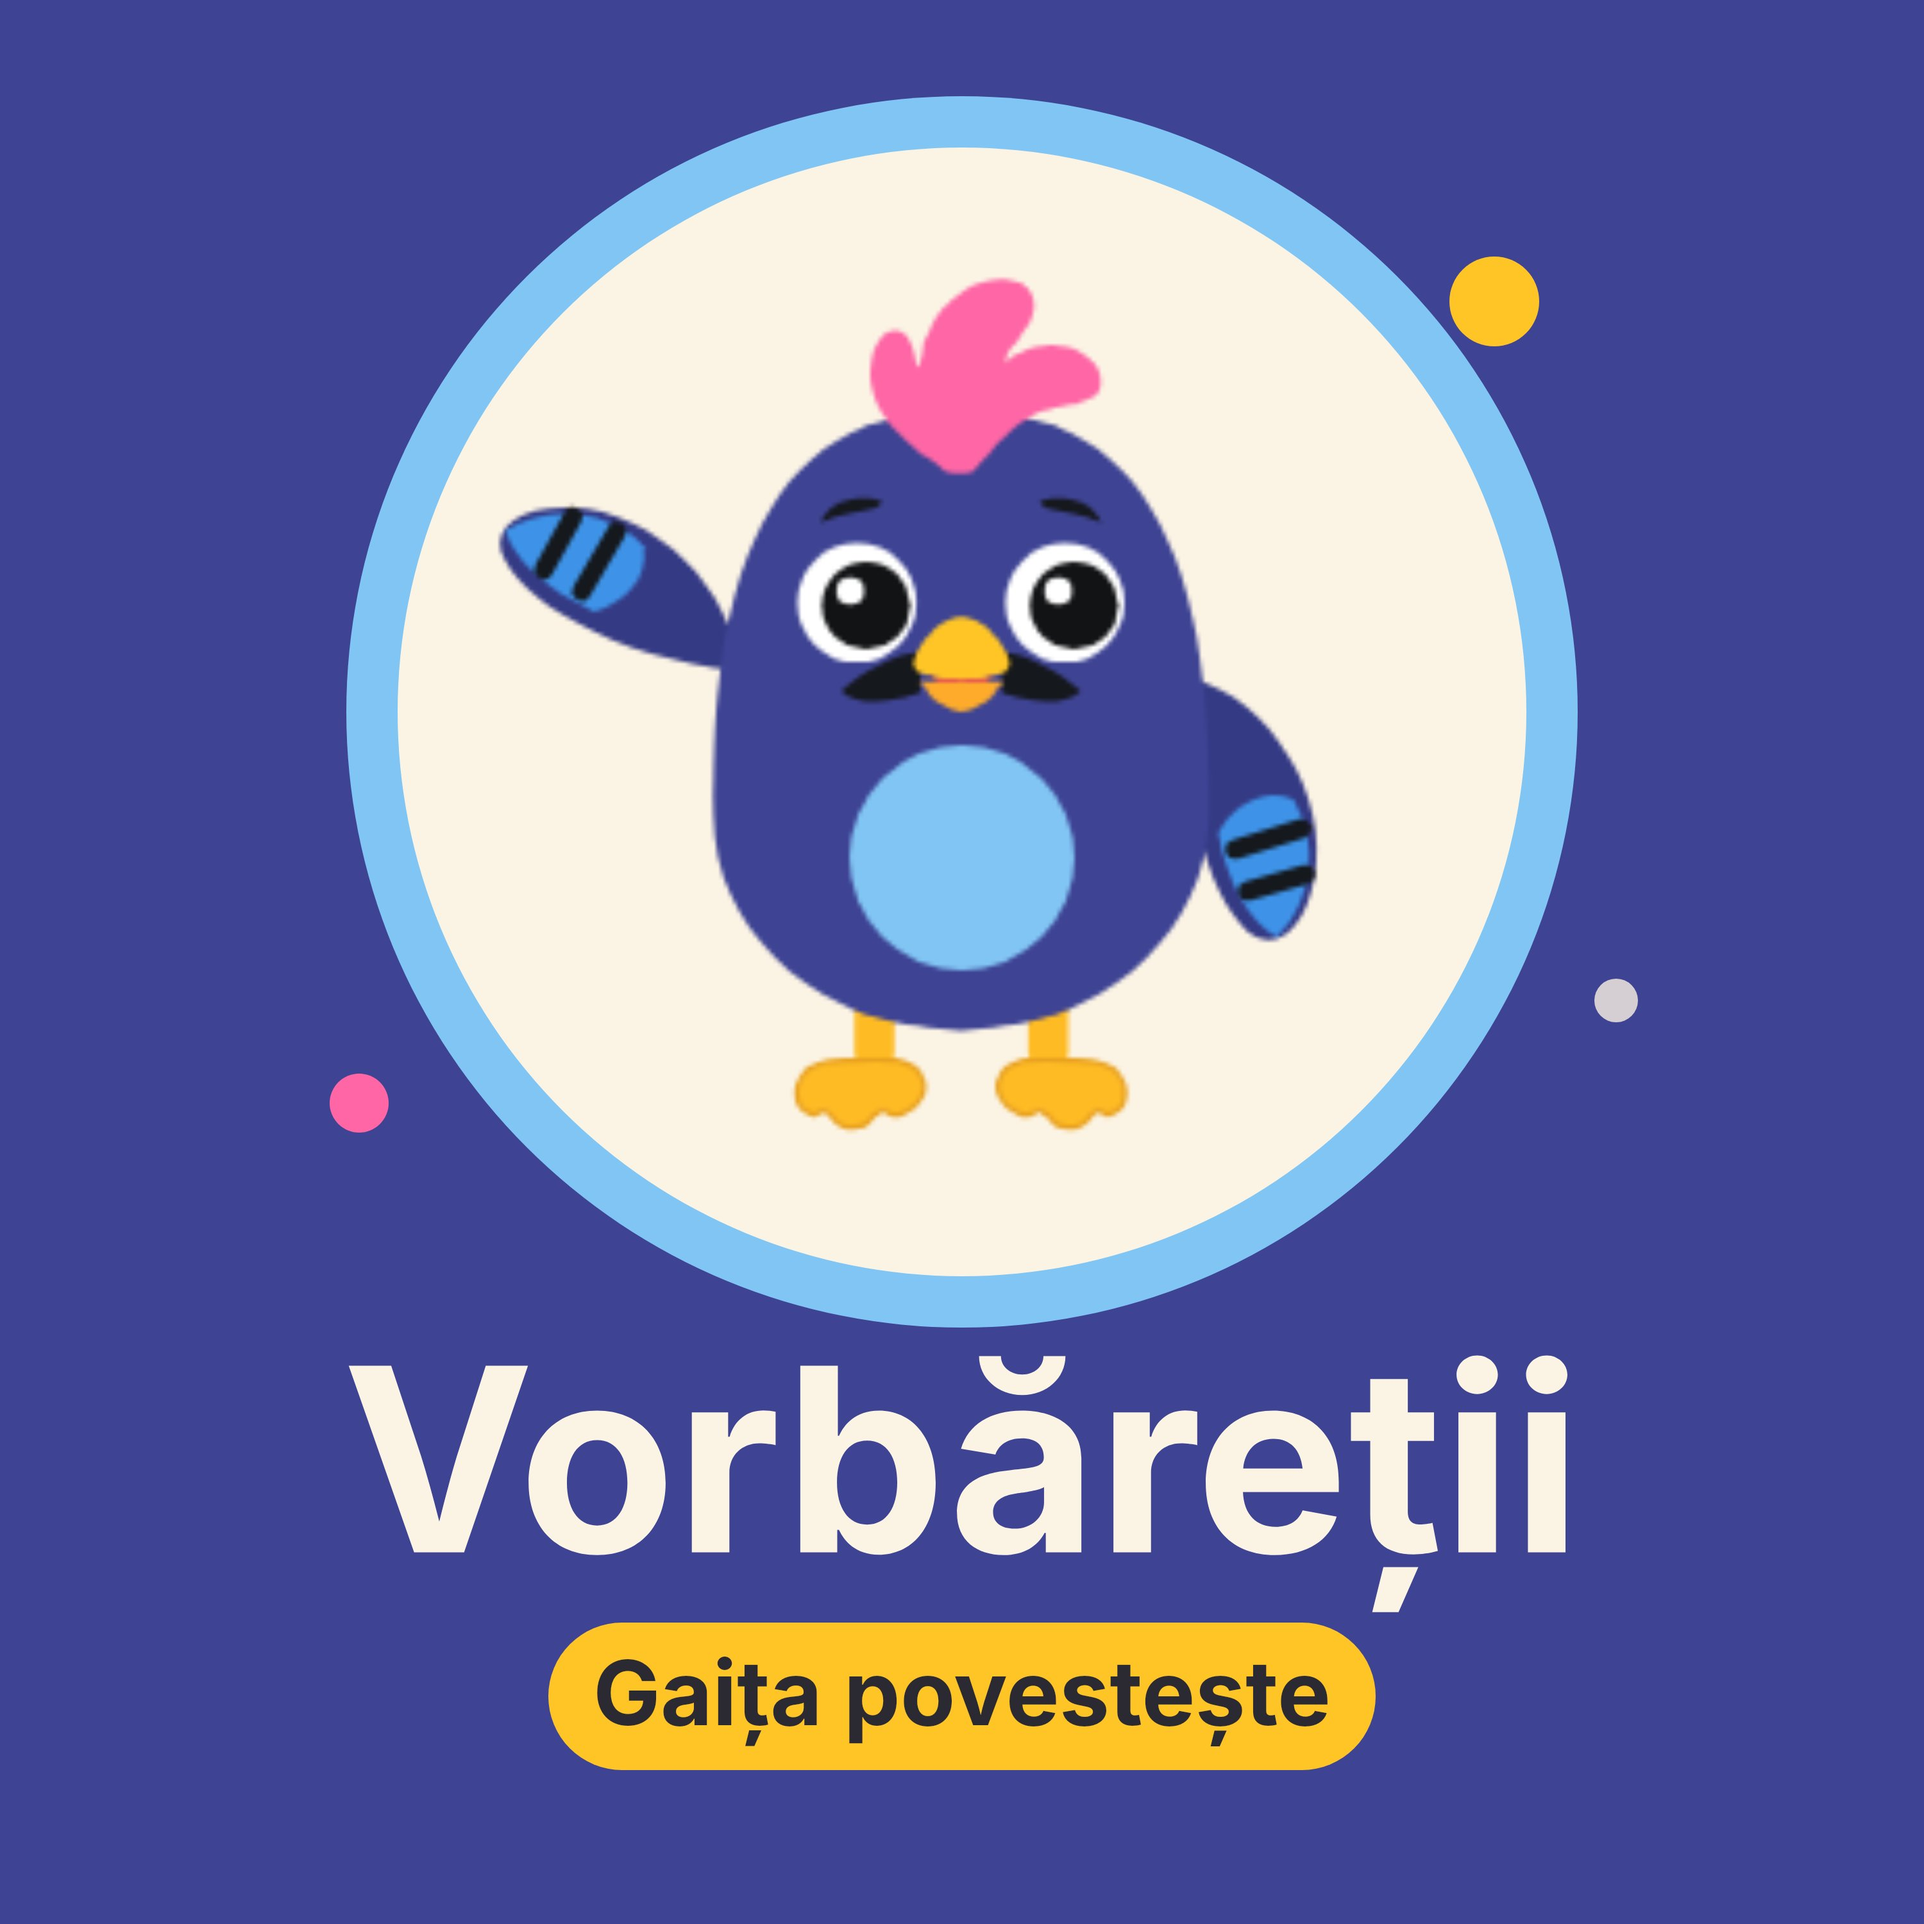
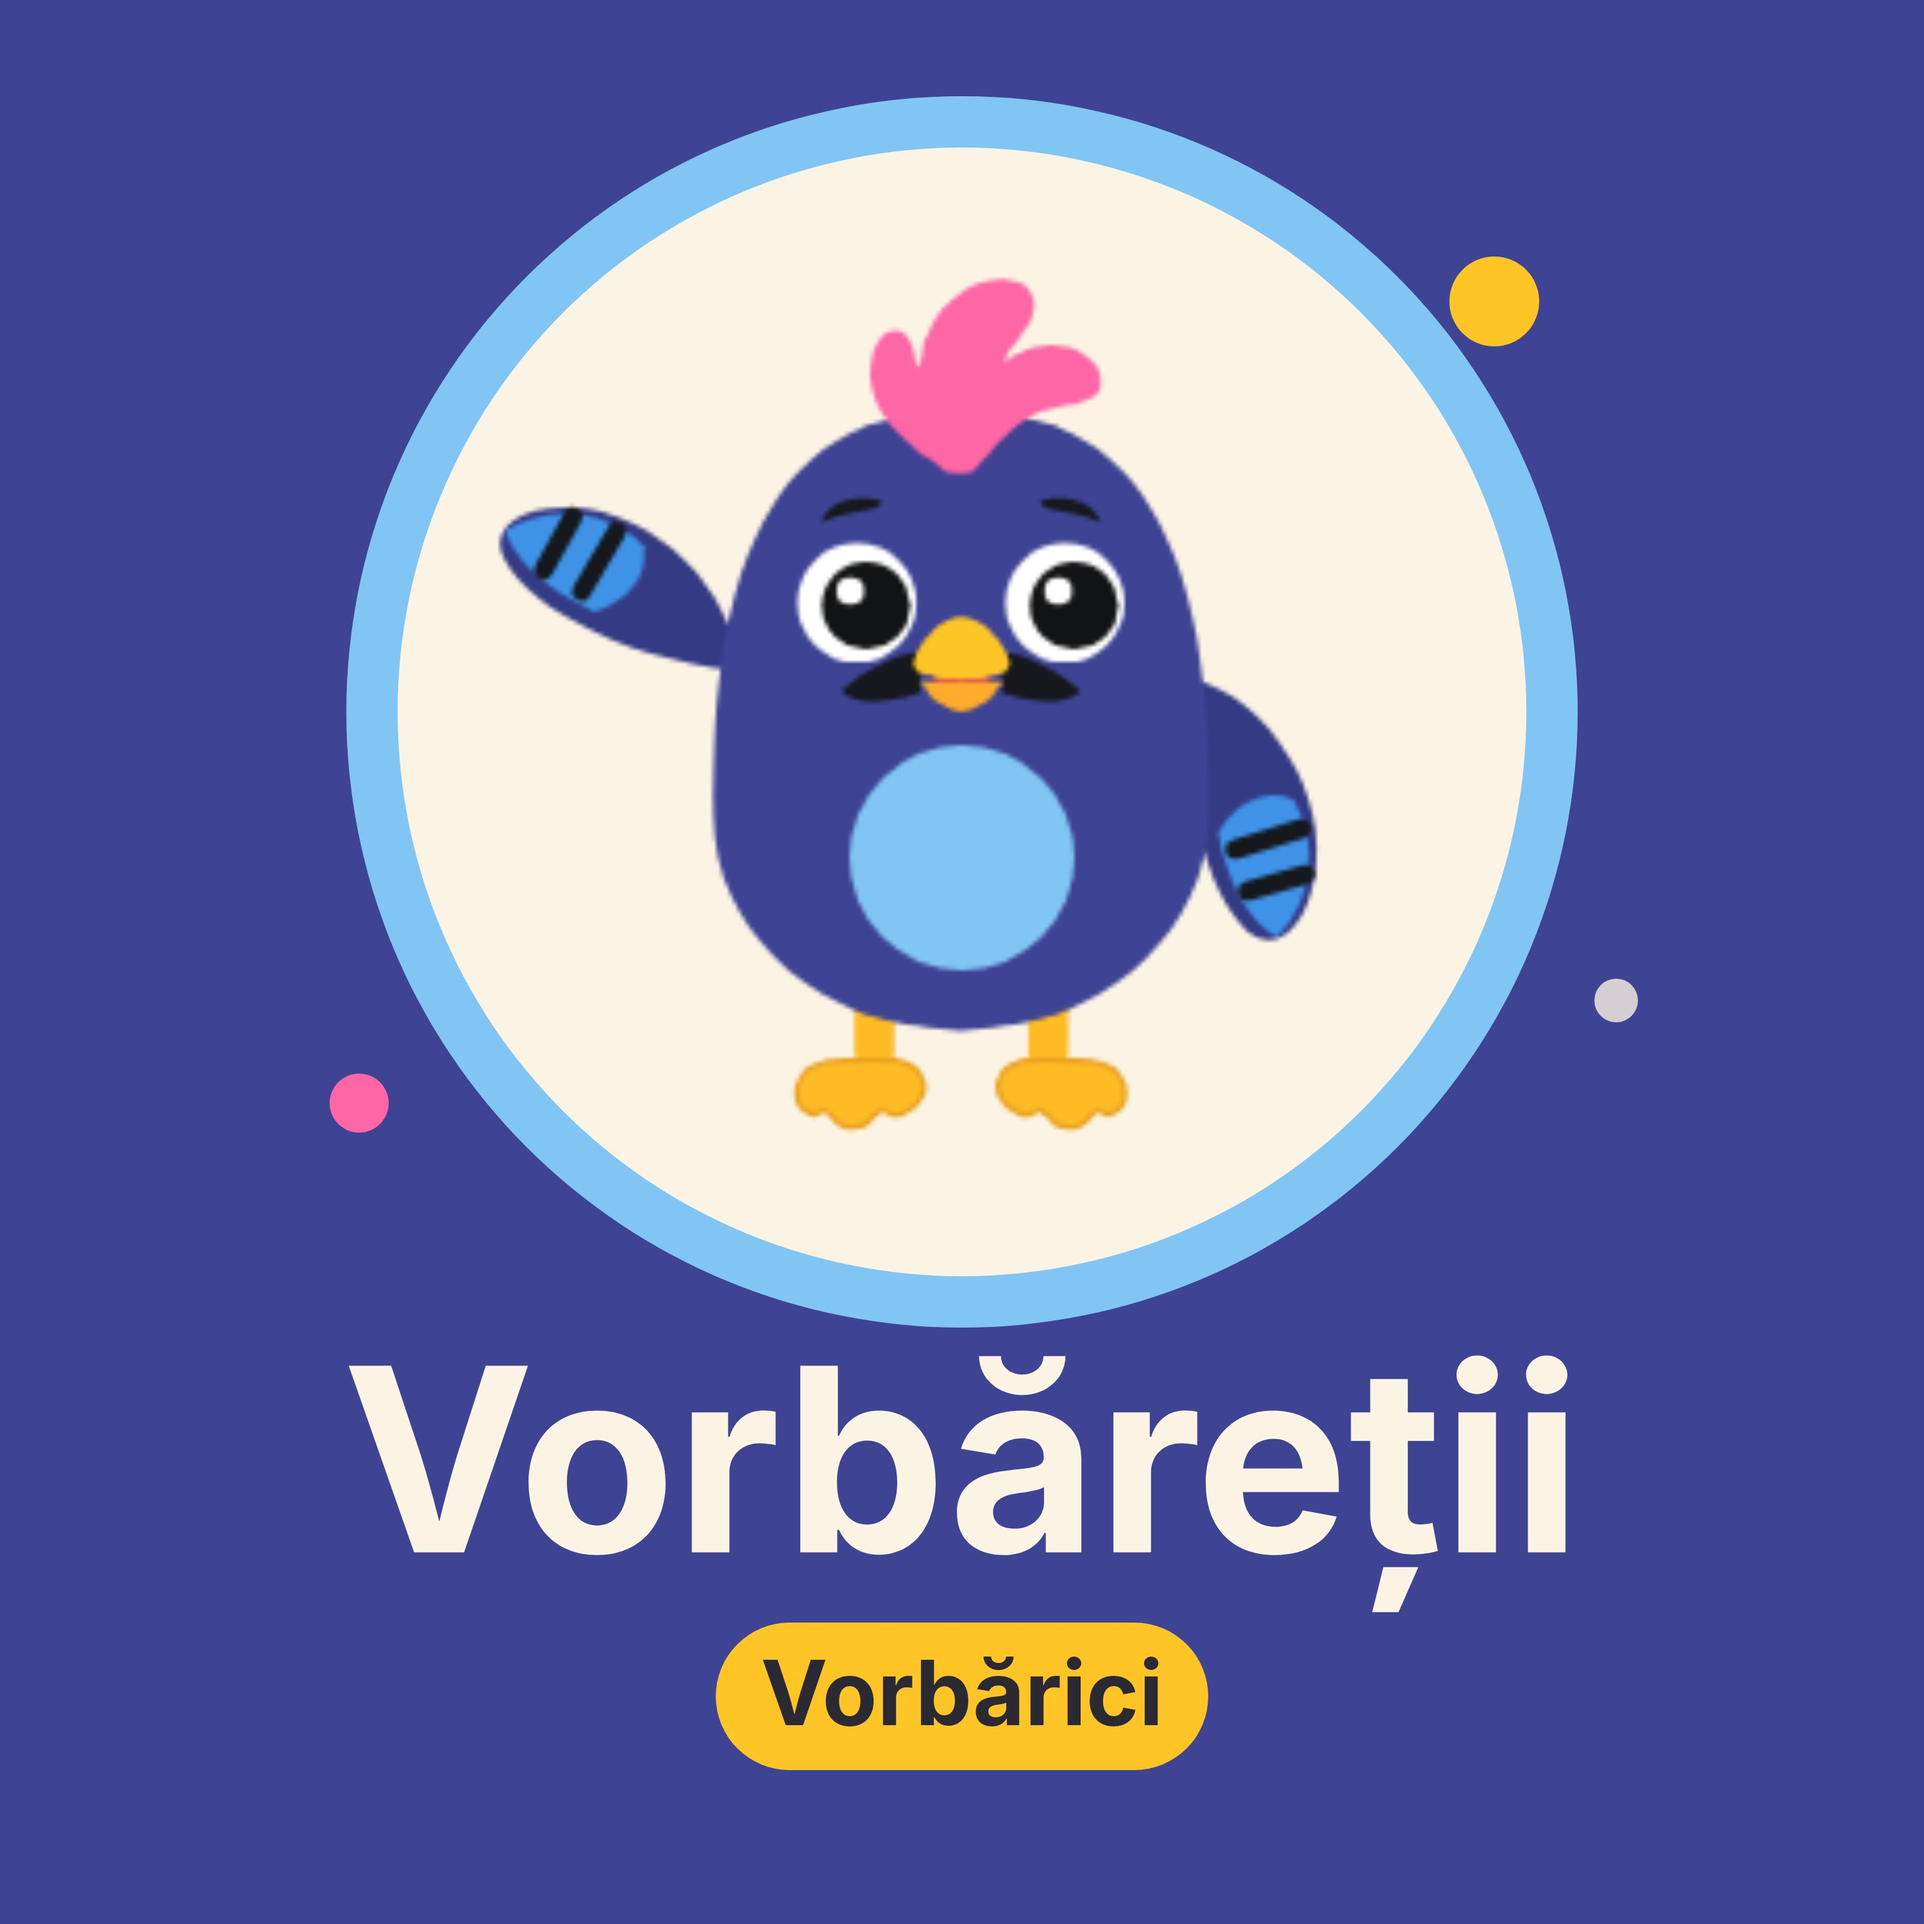
TASK-0138: coperta Vorbarici si re-publicarea zilnica (#177)
Coperta scria inca «Gaita povesteste» — numele podcastului de articole. Chip-ul
ia acum textul din RITUAL.name si isi masoara cutia din latimea lui: «Vorbarici»
e mult mai scurt, iar in cutia fixa de 1290 px ar fi plutit. Marginea nu e aleasa
la ochi — e reconstituita din v2 (1290 minus textul de atunci, pe doua parti),
deci un text lung primeste exact respiratia de dinainte. Compozitia si paleta
raman neatinse (A1).

Workflow-ul primeste un declansator zilnic (cron 03:00 UTC), iar pasul care
restaureaza .next/cache se SARE pe rularile de cron: intr-o zi fara niciun commit
nimic din arbore nu s-a schimbat, deci un full-route-cache reutilizat ar reda
XML-ul de ieri si ar anula tacut tot rostul re-publicarii.

Probat prin mutatie, patru mutatii, toate rosii: literalul pus inapoi in chip,
cutia revenita la latimea fixa, `schedule` scos, conditia de cache scoasa. O a
cincea incercare n-a compilat si n-a fost contata.

Coperta: 213 KB, JPEG 3000x3000.

Changed region(s): [[0.279, 0.837, 0.713, 0.93]]

diff --git a/scripts/test-podcast.ts b/scripts/test-podcast.ts
@@ -12,7 +12,7 @@ import test from "node:test";
 import { existsSync, readFileSync, statSync } from "node:fs";
 import { join } from "node:path";
 import { createCanvas, loadImage } from "@napi-rs/canvas";
-import { COVER_MAX_BYTES, encodeUnderBudget } from "./generate-podcast-cover";
+import { COVER_MAX_BYTES, chipBox, encodeUnderBudget } from "./generate-podcast-cover";
 import {
   PODCAST,
   buildPodcastFeed,
@@ -321,4 +321,60 @@ test("coperta care nu incape sub plafon opreste, cu marimea si plafonul in mesaj
   ctx.putImageData(noise, 0, 0);
 
   assert.throws(() => encodeUnderBudget(canvas), /plafon/);
+});
+
+/* ------------------------- coperta si re-publicarea zilnica (ADR-049) */
+
+test("ADR-048: textul chip-ului de pe coperta vine din RITUAL.name", () => {
+  const generator = readFileSync(join(process.cwd(), "scripts/generate-podcast-cover.ts"), "utf8");
+  assert.equal(
+    /const CHIP_LABEL = ([^;]+);/.exec(generator)?.[1] ?? "",
+    "RITUAL.name",
+    "ADR-048 — coperta scrie numele de mână în loc să-l ceară din RITUAL"
+  );
+  assert.match(
+    generator,
+    /fillText\(CHIP_LABEL,/,
+    "ADR-048 — chip-ul desenează altceva decât CHIP_LABEL"
+  );
+  assert.ok(
+    !generator.includes("Gaița povestește"),
+    "ADR-048 — numele vechi, al podcastului de articole, e înapoi pe copertă"
+  );
+});
+
+test("ADR-048: cutia chip-ului imbraca textul masurat, centrata pe axa copertei", () => {
+  const [narrowX, top, narrowWidth, height] = chipBox(400);
+  const [wideX, wideTop, wideWidth, wideHeight] = chipBox(900);
+  assert.equal(
+    wideWidth - narrowWidth,
+    500,
+    "cutia nu urmează lățimea textului — a rămas fixă, de la alt nume"
+  );
+  assert.equal(narrowWidth - 400, wideWidth - 900, "aerul nu e același la orice lungime de text");
+  assert.ok(narrowWidth > 400, "textul n-are aer de o parte și de alta");
+  assert.equal(narrowX + narrowWidth / 2, 1500, "chip-ul a ieșit de pe axa copertei");
+  assert.equal(wideX + wideWidth / 2, 1500, "chip-ul a ieșit de pe axa copertei");
+  assert.deepEqual([top, height], [wideTop, wideHeight], "chip-ul și-a schimbat înălțimea");
+});
+
+test("ADR-049: workflow-ul are un declansator zilnic", () => {
+  const workflow = readFileSync(join(process.cwd(), ".github/workflows/nextjs.yml"), "utf8");
+  assert.match(workflow, /^ {2}schedule:$/m, "ADR-049 — nu există declanșator `schedule`");
+  assert.match(
+    workflow,
+    /^ {4}- cron: "0 3 \* \* \*"$/m,
+    "ADR-049 — fără cron zilnic, un lot generat odată ar apărea tot deodată în feed"
+  );
+});
+
+test("ADR-049: pasul de cache e sarit pe rularile de cron", () => {
+  const workflow = readFileSync(join(process.cwd(), ".github/workflows/nextjs.yml"), "utf8");
+  const step = /^ {6}- name: Restore cache$\n([\s\S]*?)(?=^ {6}- name: )/m.exec(workflow)?.[1];
+  assert.ok(step, "pasul de restaurare a cache-ului nu mai poartă numele „Restore cache”");
+  assert.match(
+    step ?? "",
+    /^ {8}if: github\.event_name != 'schedule'$/m,
+    "ADR-049 — pe cron nimic din arbore nu s-a schimbat, iar cache-ul reluat ar reda XML-ul de ieri"
+  );
 });

diff --git a/scripts/generate-podcast-cover.ts b/scripts/generate-podcast-cover.ts
@@ -18,6 +18,7 @@ import {
 import { mkdirSync, writeFileSync } from "node:fs";
 import { dirname, join } from "node:path";
 import { mascotSvg } from "../app/components/mascot/mascot-svg";
+import { RITUAL } from "../app/azi/naming";
 import { FONTS, FONT_DIR } from "./video/config";
 
 const SIZE = 3000;
@@ -32,6 +33,23 @@ const PALETTE = {
   pink: "#FF66A6",
   ink: "#2B2A33",
 } as const;
+
+/** Axa compoziției: numele, chip-ul și mascota stau toate pe ea. */
+const CENTER_X = SIZE / 2;
+/** Chip-ul galben de sub nume, din compoziția v2 — înălțimea și linia de bază rămân ale ei. */
+const CHIP_TOP = 2530;
+const CHIP_HEIGHT = 230;
+const CHIP_BASELINE = 2690;
+const CHIP_FONT = '140px "Inter Bold"';
+/**
+ * Aerul de o parte și de alta a textului din chip. Nu e un număr ales acum: e
+ * exact cât avea compoziția v2 — cutia ei fixă (1290) minus textul de atunci,
+ * măsurat la 140px (1150), împărțit în două părți. Așa orice nume primește
+ * aceeași respirație, iar unul scurt nu mai plutește în cutia altui text.
+ */
+const CHIP_PADDING_X = 70;
+/** Numele din chip vine din casa lui (ADR-048): aici doar se citește, nu se rescrie. */
+const CHIP_LABEL = RITUAL.name;
 
 type Dot = { center: [number, number]; radius: number; fill: string };
 
@@ -48,6 +66,16 @@ function chip(ctx: SKRSContext2D, box: [number, number, number, number], fill: s
   ctx.beginPath();
   ctx.roundRect(x, y, width, height, height / 2);
   ctx.fill();
+}
+
+/**
+ * Cutia chip-ului în jurul textului MĂSURAT: lățimea lui plus aerul de o parte
+ * și de alta, centrată pe axa copertei. Cutia fixă de dinainte era a unui text
+ * anume — la orice alt nume rămânea pe jumătate goală.
+ */
+export function chipBox(labelWidth: number): [number, number, number, number] {
+  const width = labelWidth + 2 * CHIP_PADDING_X;
+  return [CENTER_X - width / 2, CHIP_TOP, width, CHIP_HEIGHT];
 }
 
 /**
@@ -91,11 +119,11 @@ async function main(): Promise<void> {
   ctx.textAlign = "center";
   ctx.fillStyle = PALETTE.cream;
   ctx.font = '400px "Inter Bold"';
-  ctx.fillText("Vorbăreții", 1500, 2420);
-  chip(ctx, [855, 2530, 1290, 230], PALETTE.yellow);
+  ctx.fillText("Vorbăreții", CENTER_X, 2420);
+  ctx.font = CHIP_FONT;
+  chip(ctx, chipBox(ctx.measureText(CHIP_LABEL).width), PALETTE.yellow);
   ctx.fillStyle = PALETTE.ink;
-  ctx.font = '140px "Inter Bold"';
-  ctx.fillText("Gaița povestește", 1500, 2690);
+  ctx.fillText(CHIP_LABEL, CENTER_X, CHIP_BASELINE);
   const { jpeg, quality } = encodeUnderBudget(canvas);
   mkdirSync(dirname(OUT), { recursive: true });
   writeFileSync(OUT, jpeg);
